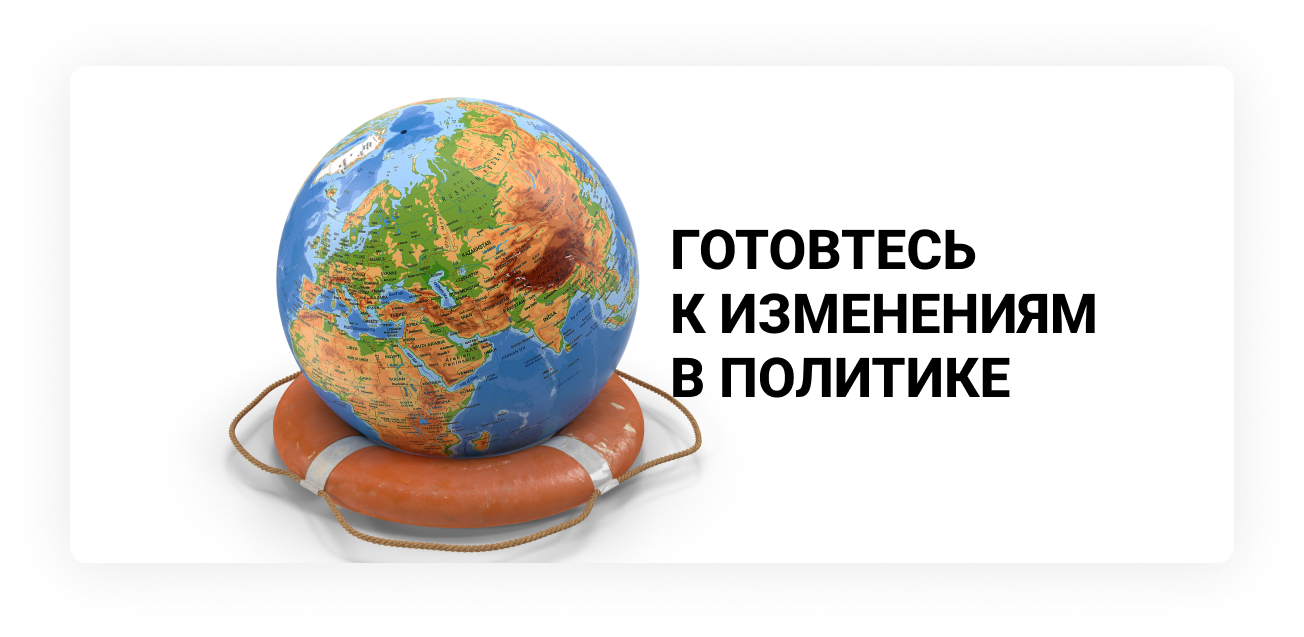
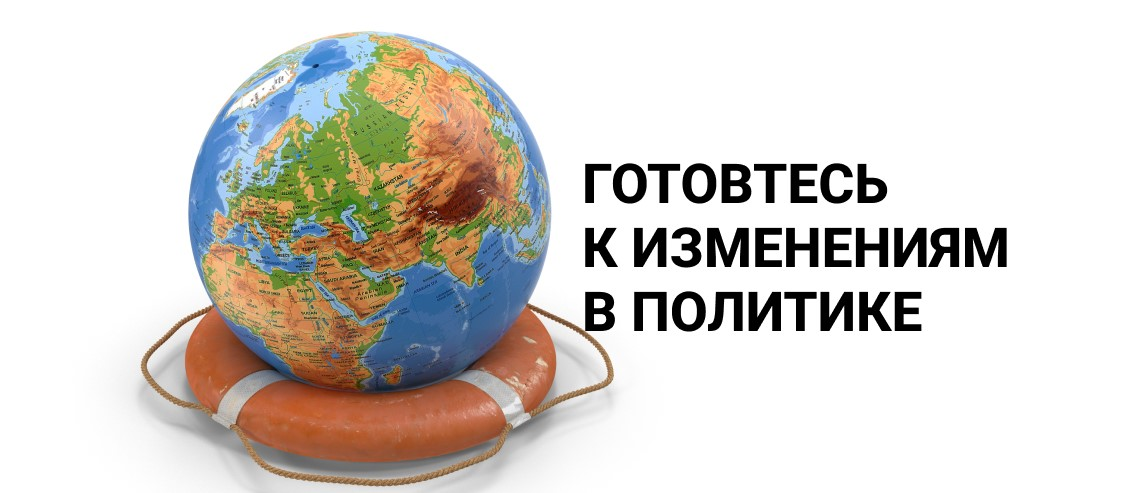
fix to info section

Changed region(s): [[0.0927, 0.0609, 0.8959, 1.0]]

diff --git a/source/index.html b/source/index.html
@@ -225,7 +225,7 @@
       <section class="info">
         <h2 class="info__title">Средства работают эффективно, где бы вы ни были</h2>
         <div class="info__slider" id="info__slider">
-          <div class="slide slide--first"><img src="img/slide1.jpg" alt="Готовтесь
+          <div class="slide slide--first"><img src="img/slide11.jpg" alt="Готовтесь
           к изменениям
           в политике"></div>
           <div class="slide slide--second"><img src="img/slide3.jpg" alt="Создайте резервный фонд">
@@ -549,6 +549,7 @@
     <script type="text/javascript"
       src="https://cdnjs.cloudflare.com/ajax/libs/slick-carousel/1.8.1/slick.min.js"></script>
     <script src="https://code.jquery.com/ui/1.12.1/jquery-ui.js"></script>
+    <script src="https://cdnjs.cloudflare.com/ajax/libs/jqueryui-touch-punch/0.2.3/jquery.ui.touch-punch.min.js" integrity="sha512-0bEtK0USNd96MnO4XhH8jhv3nyRF0eK87pJke6pkYf3cM0uDIhNJy9ltuzqgypoIFXw3JSuiy04tVk4AjpZdZw==" crossorigin="anonymous" referrerpolicy="no-referrer"></script>
     <script src="js/script.js"></script>
 </body>
 

diff --git a/source/sass/blocks/info.scss b/source/sass/blocks/info.scss
@@ -33,6 +33,9 @@
     font-size: 45px;
   }
 }
+.slide{
+  border-radius: 16px;
+}
 
 .info__slider .slick-dots li.slick-active button:before {
   color: rgba(0, 0, 0, 1);

diff --git a/source/js/slider.js b/source/js/slider.js
@@ -1,7 +1,7 @@
 $('#info__slider').slick({
   dots: true,
   infinite: true,
-  autoplay:true,
+  autoplay:false,
   speed: 300,
   arrows: false,
 });
